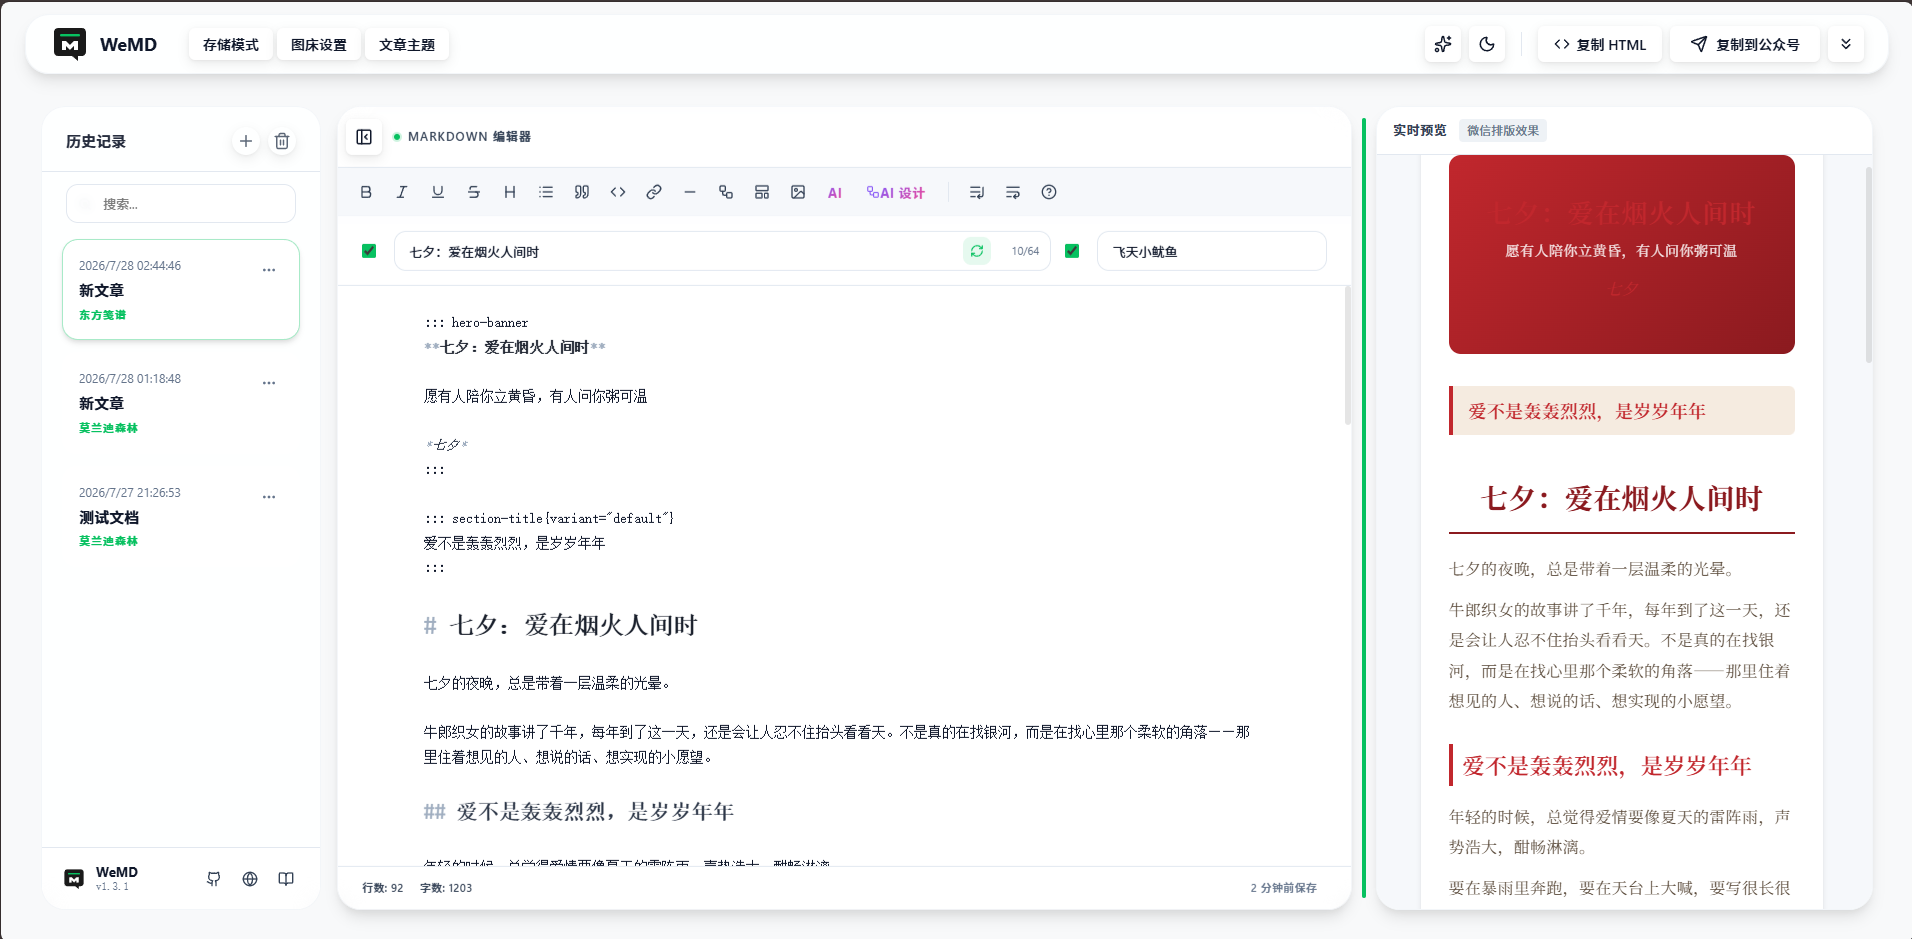
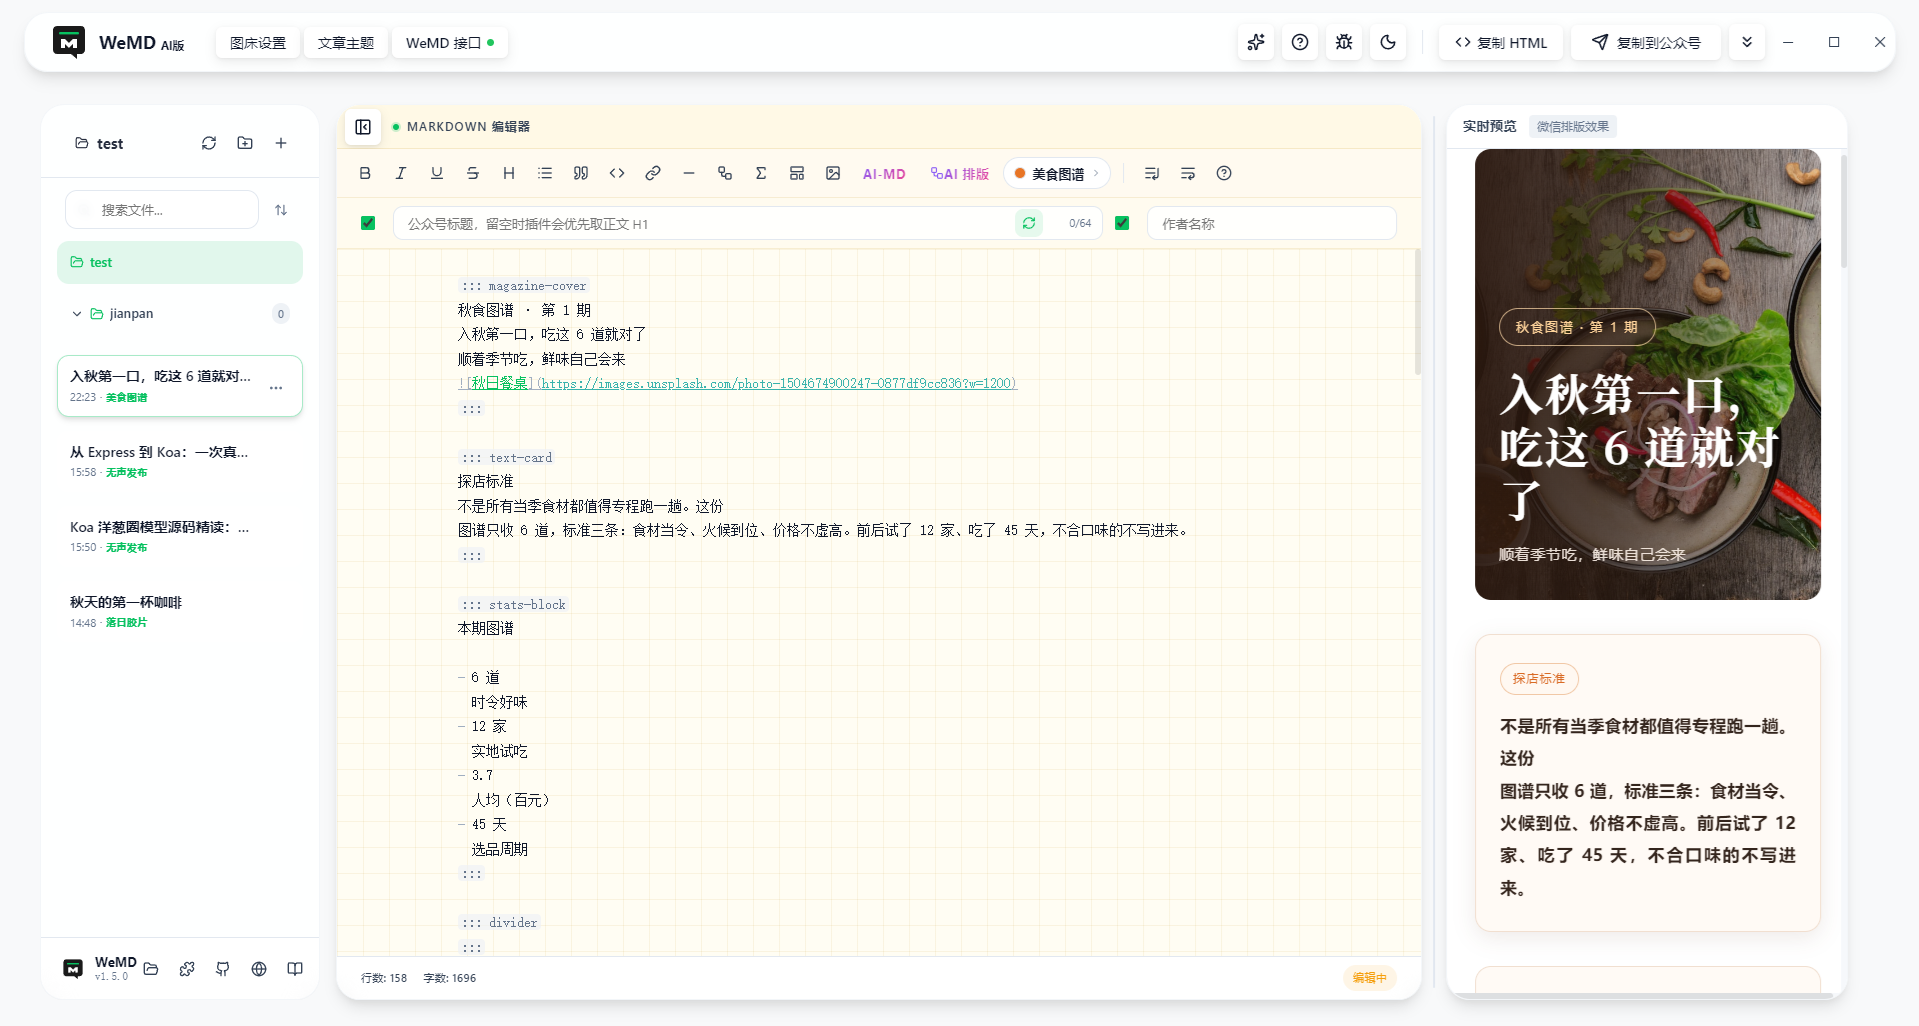
docs: 更新预览截图，补充原作者收款码说明
- 替换 README 预览截图（主界面 / 排版效果）
- 末尾补「支持原作者」：注明两个收款码属于原项目 WeMD 作者，
  本仓库不收费，感谢其代码与提供的免费官方图床
- .gitignore 补充本机调试配置

diff --git a/README.md b/README.md
@@ -36,6 +36,7 @@
 - [项目结构](#项目结构)
 - [相关文档](#相关文档)
 - [项目来源](#项目来源)
+- [支持原作者](#支持原作者)
 
 ---
 
@@ -291,3 +292,16 @@ WeMD 提供了公众号 Markdown 排版的基础框架 —— 所见即所得的
 ## License
 
 详见 [LICENSE](LICENSE)。
+
+---
+
+## 支持原作者
+
+下面两个收款码是 **原项目 WeMD 作者**的，**不是本仓库的**，也**不代表本仓库收费**。
+
+本仓库**不收取任何费用**。放在这里只是想感谢两件事：一是原作者的代码，二是他提供的免费官方图床 —— 本程序默认使用的图床（粘贴或插入的图片会自动上传到这里）就是他维护的。如果你觉得这套工具好用，可以去支持一下原作者。
+
+<p align="center">
+  <img src=".github/assets/wechat-pay.jpg" width="200" alt="微信收款码（原作者 WeMD）" />
+  <img src=".github/assets/alipay.jpg" width="200" alt="支付宝收款码（原作者 WeMD）" />
+</p>
